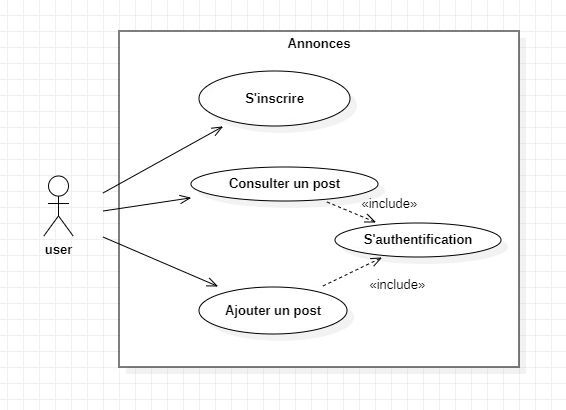
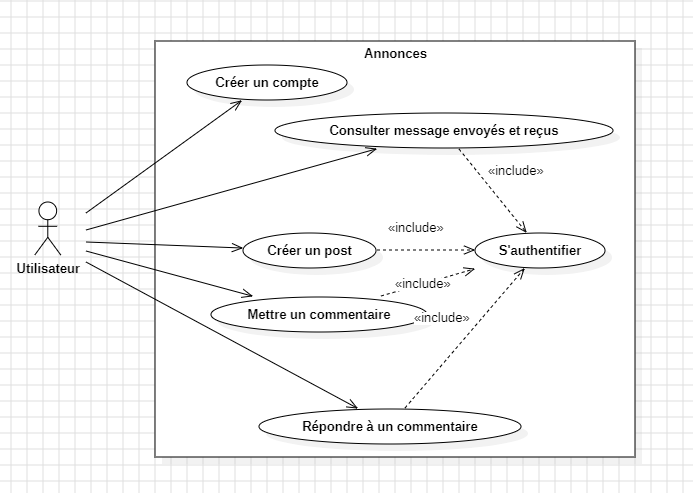
tried adding comments

diff --git a/data/DataAccess.php b/data/DataAccess.php
@@ -2,13 +2,14 @@
 
 namespace data;
 
-use domain\{Post, User};
+use domain\{Comment, Post, User};
 use service\DataAccessInterface;
 
 include_once "service/DataAccessInterface.php";
 
 include_once "domain/Post.php";
 include_once "domain/User.php";
+include_once "domain/Comment.php";
 
 
 class DataAccess implements DataAccessInterface
@@ -29,7 +30,7 @@ class DataAccess implements DataAccessInterface
     {
         $user = null;
 
-        $query = 'SELECT login FROM Users WHERE login="' . $login . '" and password="' . $password . '"';
+        $query = 'SELECT login FROM User WHERE login="' . $login . '" and password="' . $password . '"';
         $result = $this->dataAccess->query($query);
 
         if ($result->rowCount())
@@ -68,15 +69,74 @@ class DataAccess implements DataAccessInterface
         return $post;
     }
 
+    public function getCommentsFromPostID($id)
+    {
+        $query = ('SELECT * FROM Comment WHERE post_id= :id');
+
+        $statement = $this->dataAccess->prepare($query);
+        $statement->bindParam(':id', $id);
+        $statement->execute();
+
+        $comments = array();
+
+        while ($row = $statement->fetch()) {
+            $currentComment = new Comment($row['comment_id'], $row['comment_author'], $row['comment_text'], $row['post_id']);
+            $comments[] = $currentComment;
+        }
+
+        $statement->closeCursor();
+
+        return $comments;
+    }
+
+    public function getCommentsFromLogin($login)
+    {
+        $query = ('SELECT * FROM Comment WHERE comment_author=:login');
+
+        $statement = $this->dataAccess->prepare($query);
+        $statement->bindParam(':login', $login);
+        $statement->execute();
+
+        $comments = array();
+
+        while ($row = $statement->fetch()) {
+            $currentComment = new Comment($row['comment_id'], $row['comment_author'], $row['comment_text'], $row['post_id']);
+            $comments[] = $currentComment;
+        }
+
+        $statement->closeCursor();
+
+        return $comments;
+    }
+
+    public function getReceivedComments($login)
+    {
+        $query = ('SELECT * FROM Comment WHERE post_id IN (SELECT id FROM Post WHERE login="' . $login . '")');
+
+            $statement = $this->dataAccess->prepare($query);
+            $statement->bindParam(':login', $login);
+            $statement->execute();
+
+            $comments = array();
+
+            while ($row = $statement->fetch()) {
+                $currentComment = new Comment($row['comment_id'], $row['comment_author'], $row['comment_text'], $row['post_id']);
+                $comments[] = $currentComment;
+            }
+
+            $statement->closeCursor();
+
+            return $comments;
+        }
+
     public function getLogins($login)
     {
-        $query = 'SELECT login FROM Users WHERE login="' . $login . '"';
+        $query = 'SELECT login FROM User WHERE login="' . $login . '"';
 
         $result = $this->dataAccess->query($query);
 
         if ($result === false) {
-            // Query execution failed
-            return null; // or handle the error in a way that makes sense for your application
+            return null;
         }
 
         $row = $result->fetch();
@@ -84,15 +144,36 @@ class DataAccess implements DataAccessInterface
 
         if ($row === false) {
             // No results found
-            return null; // or handle the absence of results in a way that makes sense for your application
+            return null;
         }
 
         return $row['login'];
     }
 
+    public function addComment($text, $login, $id)
+    {
+        $query = 'INSERT INTO Comment (comment_text, comment_author, post_id) VALUES (:content, :login, :id)';
+
+        $statement = $this->dataAccess->prepare($query);
+        $statement->bindParam(':content', $text);
+        $statement->bindParam(':login', $login);
+        $statement->bindParam(':id', $id);
+
+        if ($statement->execute() === false) {
+            // If execution fails, close the cursor and return false
+            $statement->closeCursor();
+            return false;
+        }
+
+        // Close the cursor after successful execution
+        $statement->closeCursor();
+
+        // Return true or any other value as per your requirement to indicate successful execution
+        return true;
+    }
 
     public function addUser($login, $password, $name, $surname){
-        $query = 'INSERT INTO Users (login, password, name, surname) VALUES (:login, :password, :name, :surname)';
+        $query = 'INSERT INTO User (login, password, name, surname) VALUES (:login, :password, :name, :surname)';
 
         $statement = $this->dataAccess->prepare($query);
         $statement->bindParam(':login', $login);

diff --git a/control/Presenter.php b/control/Presenter.php
@@ -18,7 +18,7 @@ class Presenter
             foreach ($this->annoncesCheck->getAnnoncesTxt() as $post) {
                 $content .= ' <li>';
                 $content .= '<a href="/annonces/index.php/post?id=' .
-                    $post['id'] . '">' . htmlspecialchars($post['title']) . ' ('.$post['date'] .')'. '</a>';
+                    $post['id'] . '">' . htmlspecialchars($post['title']) . ' (' . $post['date'] . ')' . '</a>';
                 $content .= ' </li>';
             }
             $content .= '</ul>';
@@ -37,6 +37,21 @@ class Presenter
             $content .= '<div class="author">' . $post['author'] . '</div>';
             $content .= '<div class="date">' . $post['date'] . '</div>';
             $content .= '<div class="body">' . htmlspecialchars($post['body']) . '</div>';
+            $content .= '</div>';
+        }
+        return $content;
+    }
+
+    public function getCommentsHTML()
+    {
+        $content = '<ul>';
+        if ($this->annoncesCheck->getComments() != null) {
+            foreach ($this->annoncesCheck->getComments() as $comment) {
+                $content .= '<div class="comment">';
+                $content .= '<div class="author">' . $comment['comment_author'] . '</div>';
+                $content .= '<div class="body">' . htmlspecialchars($comment['comment_text']) . '</div>';
+                $content .= '</div>';
+            }
             $content .= '</div>';
         }
         return $content;

diff --git a/service/AnnoncesChecking.php b/service/AnnoncesChecking.php
@@ -5,6 +5,8 @@ class AnnoncesChecking
 {
     protected $annoncesTxt;
 
+    protected $commentairesTxt;
+
     public function getAnnoncesTxt()
     {
         return $this->annoncesTxt;
@@ -32,6 +34,15 @@ class AnnoncesChecking
         $this->annoncesTxt[] = array('id' => $post->getId(), 'title' => $post->getTitle(), 'body' => $post->getBody(), 'date' => $post->getDate(), 'author' => $post->getAuthor());
     }
 
+    public function getComments($id, $data)
+    {
+        $comments = $data->getCommentsFromPostID($id);
+
+        foreach ($comments as $comment) {
+            $this->commentairesTxt[] = array('comment_id' => $comment->getId(), 'comment_text' => $comment->getText(),'comment_author' => $comment->getAuthor(), 'post_id' => $comment->getPostId());
+        }
+    }
+
     public function checkUser($login, $password, $name, $surname, $data)
     {
         // vérifie que login n'existe pas deja avec getLogin + mot de passe fort
@@ -44,5 +55,11 @@ class AnnoncesChecking
     {
         // vérifie que le titre et le corps ne sont pas vides, que l'utilisateur est bien login
         return (!empty($title) && !empty($body) && !empty($login));
+    }
+
+    public function checkComment($text, $login)
+    {
+        // vérifie que le texte n'est pas vide, que l'utilisateur est bien login
+        return (!empty($text) && !empty($login));
     }
 }

diff --git a/gui/ViewComment.php b/gui/ViewComment.php
@@ -1,0 +1,26 @@
+<?php
+
+namespace gui;
+
+class ViewComment extends View
+{
+    public function __construct($layout, $login)
+    {
+        parent::__construct($layout);
+
+        $this->title = 'Exemple Annonces Basic PHP: Annonces';
+        $this->content = '<div class="commenting-section">
+        <span>Add a comment</span>
+        <form action="/annonces/index.php/createcomment" method="post">
+            <input type="hidden" name="id" value="'.$_GET['id'].'">
+            <input type="hidden" name="login" value="'.$login.'">
+            <input type="text" name="content" placeholder="Your comment">
+            <input type="submit" value="Submit"></form></div>
+            ';
+    }
+
+    public function __toString()
+    {
+        return $this->content;
+    }
+}

diff --git a/domain/Comment.php b/domain/Comment.php
@@ -1,0 +1,40 @@
+<?php
+
+namespace domain;
+
+class Comment
+{
+    protected $id;
+    protected $author;
+    protected $text;
+    protected $postId;
+
+    public function __construct($id, $author, $text, $postId)
+    {
+        $this->id = $id;
+        $this->author = $author;
+        $this->text = $text;
+        $this->postId = $postId;
+    }
+
+    public function getId()
+    {
+        return $this->id;
+    }
+
+    public function getAuthor()
+    {
+        return $this->author;
+    }
+
+    public function getText()
+    {
+        return $this->text;
+    }
+
+    public function getPostId()
+    {
+        return $this->postId;
+    }
+
+}

diff --git a/index.php b/index.php
@@ -14,6 +14,7 @@ include_once 'gui/ViewPost.php';
 include_once 'gui/ViewSignup.php';
 include_once 'gui/Layout.php';
 include_once 'gui/ViewCreate.php';
+include_once 'gui/ViewComment.php';
 
 use control\{Controllers, Presenter};
 use data\DataAccess;
@@ -87,6 +88,8 @@ elseif ( '/annonces/index.php/post' == $uri
     && isset($_GET['id']) && isset($_SESSION['login']) && isset($_SESSION['password'])) {
 
     $controller->postAction($_GET['id'], $data, $annoncesCheck);
+
+    $controller->commentAction($_GET['id'], $data, $annoncesCheck);
 
     $layout = new Layout("gui/layout.html" );
     $vuePost= new ViewPost( $layout, $presenter );

diff --git a/service/DataAccessInterface.php b/service/DataAccessInterface.php
@@ -7,6 +7,10 @@ interface DataAccessInterface
     public function getLogins($login);
     public function getAllAnnonces();
     public function getPost($id);
+    public function getReceivedComments($login);
+    public function getCommentsFromPostID($id);
+    public function getCommentsFromLogin($login);
     public function addUser($login, $password, $name, $surname);
     public function addPost($title, $content, $login);
+    public function addComment($text, $login, $id);
 }

diff --git a/gui/ViewPost.php b/gui/ViewPost.php
@@ -12,7 +12,11 @@ class ViewPost extends View
 
         $this->content = $presenter->getCurrentPostHTML();
 
+        $this->content.= new ViewComment($layout, $_SESSION['login']);
+
         $this->content.= new ViewCreate($layout, $_SESSION['login']);
+
+        $this->content.= $presenter->getCommentsHTML($_GET['id']);
 
     }
 }

diff --git a/control/Controllers.php b/control/Controllers.php
@@ -49,4 +49,9 @@ class Controllers
         } else return false;
     }
 
+    public function commentAction($id, $data, $annoncesCheck): void
+    {
+        $annoncesCheck->getComments($id, $data);
+    }
+
 }
